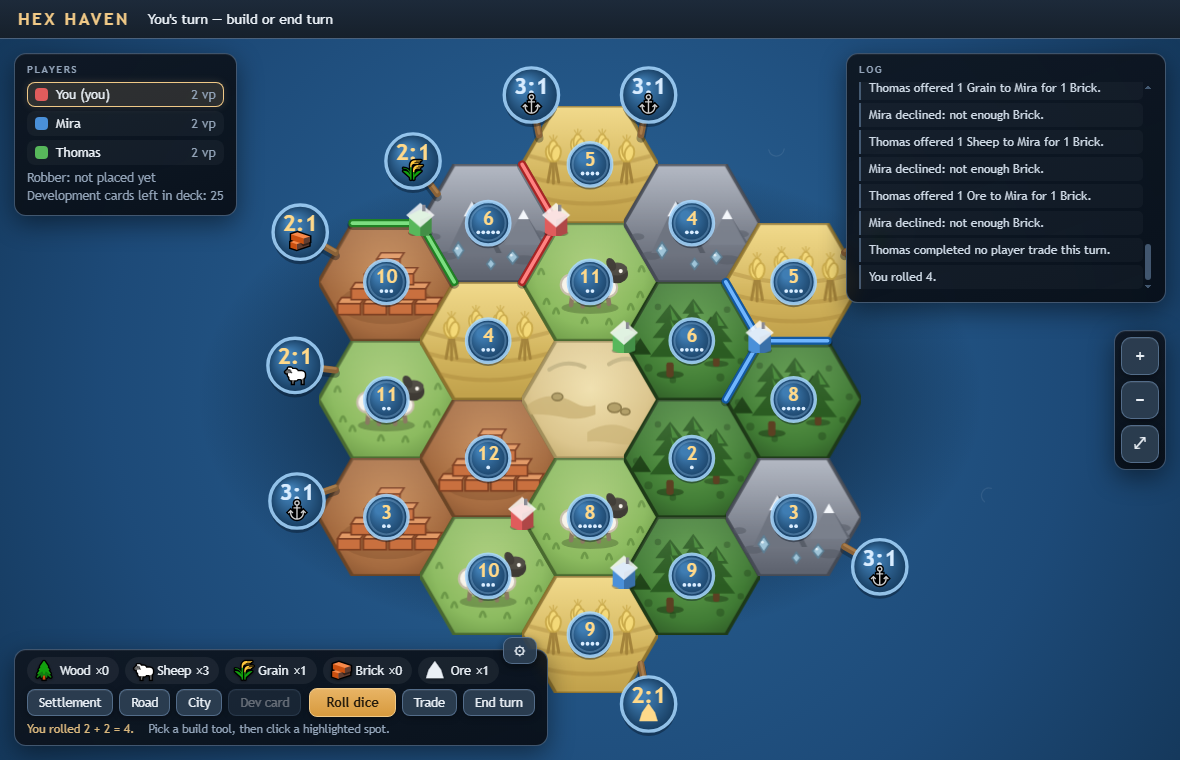
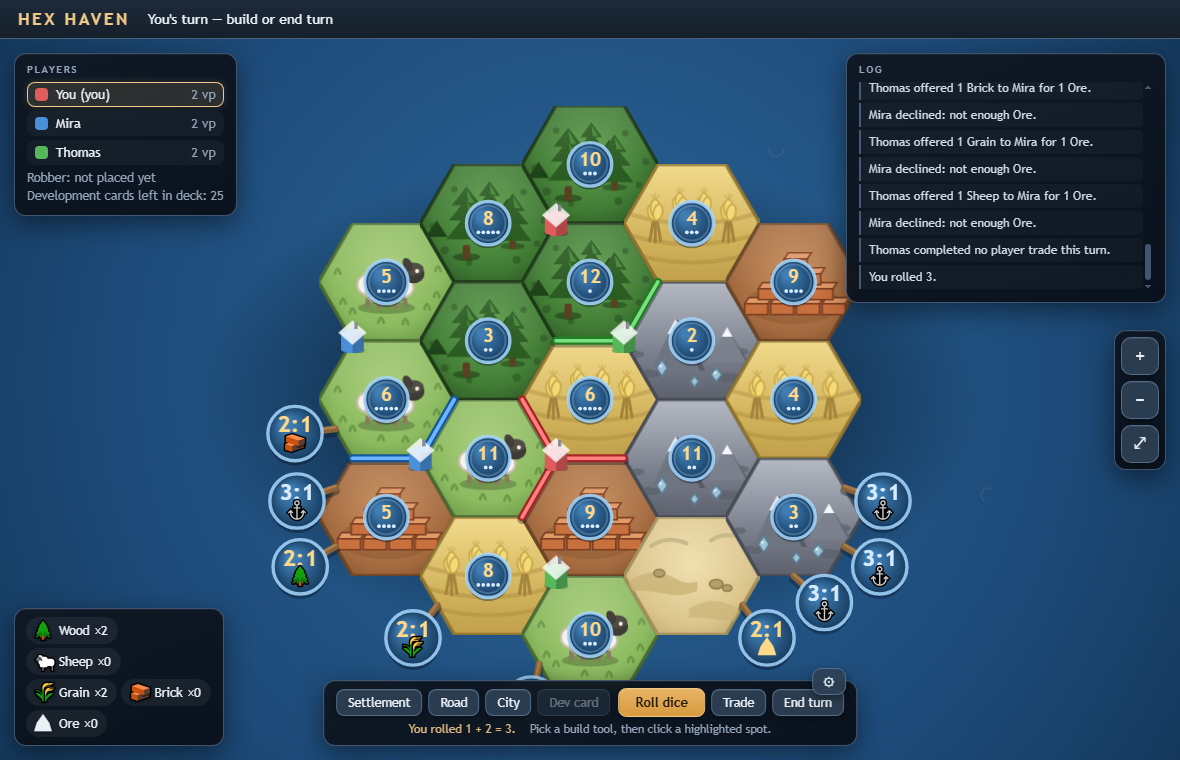
HUD: player resource stock in its own bottom-left panel, action bar recentred

diff --git a/css/style.css b/css/style.css
@@ -90,15 +90,29 @@ body {
 #hud-players { top: 14px; left: 14px; min-width: 200px; }
 #hud-log { top: 14px; right: 14px; width: 320px; }
 
-/* Hand and primary actions float along the bottom-LEFT edge: resources on
-   their own line, then one row of tools + dice, then the hints line, with
-   the secondary options hidden behind the gear popover. */
-#hud-hand {
+/* The player's resource stock is its OWN small panel in the bottom-left
+   corner, independent of the action bar. Wraps into a tight grid so it
+   never stretches under the centred action bar. */
+#hud-res {
   left: 14px;
   bottom: 14px;
   display: flex;
   flex-direction: column;
   align-items: flex-start;
+  gap: 4px;
+  padding: 8px 11px;
+  max-width: 210px;
+}
+#hud-res .chips { flex-wrap: wrap; gap: 4px; justify-content: flex-start; }
+
+/* Build tools + dice + hints stay centred along the bottom edge. */
+#hud-hand {
+  left: 50%;
+  bottom: 14px;
+  transform: translateX(-50%);
+  display: flex;
+  flex-direction: column;
+  align-items: center;
   gap: 4px;
   padding: 7px 12px;
   max-width: min(880px, 96vw);
@@ -127,7 +141,7 @@ body {
 }
 
 /* Both hints share a single quiet line. */
-.hintline { display: flex; gap: 14px; flex-wrap: wrap; justify-content: flex-start; }
+.hintline { display: flex; gap: 14px; flex-wrap: wrap; justify-content: center; }
 .hintline .hint { margin: 0; font-size: 11.5px; }
 #hud-hand #rollresult { font-size: 12px; color: var(--gold); opacity: .9; margin: 0; }
 
@@ -395,7 +409,8 @@ body {
   .player { padding: 3px 6px; font-size: 12px; margin-bottom: 3px; }
 
   /* The hand spans the full width so every action stays thumb-reachable
-     in portrait, with a safe-area inset for notched phones. */
+     in portrait, with a safe-area inset for notched phones; the resource
+     panel rides above it on the left. */
   #hud-hand {
     left: 8px;
     right: 8px;
@@ -403,6 +418,12 @@ body {
     transform: none;
     max-width: none;
     padding: 6px 8px;
+  }
+  #hud-res {
+    left: 8px;
+    bottom: calc(96px + env(safe-area-inset-bottom, 0px));
+    max-width: 46vw;
+    padding: 6px 9px;
   }
   .handbar { gap: 6px; }
   .handbar .btn { padding: 6px 8px; font-size: 12.5px; }

diff --git a/index.html b/index.html
@@ -36,8 +36,13 @@
     <!-- Compact bottom bar: resources, then build tools + dice on ONE row,
          a single hint line, and secondary options tucked into a gear menu.
          Empty containers must not reserve space. -->
-    <section class="hud" id="hud-hand">
+    <!-- Player resources float bottom-left as their own small panel,
+         separate from the action bar. -->
+    <section class="hud" id="hud-res">
       <div id="hand" class="chips"></div>
+    </section>
+
+    <section class="hud" id="hud-hand">
       <div class="handbar">
         <div class="chips" id="buildbar">
           <button class="btn" id="build-settlement" data-build="settlement">Settlement</button>
